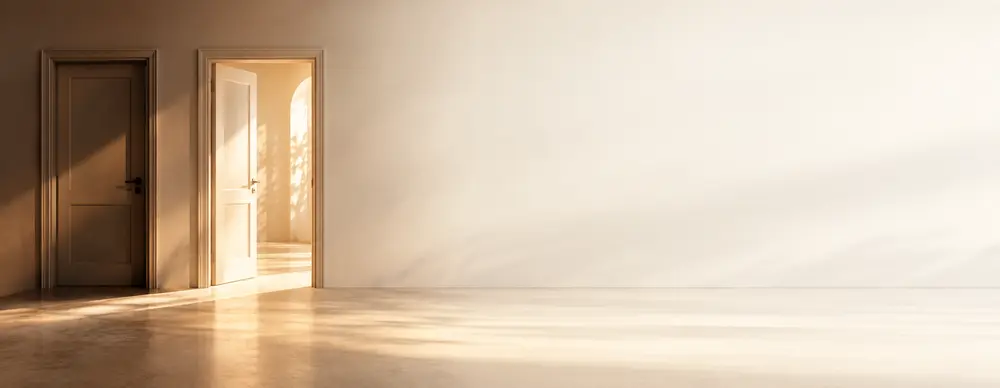
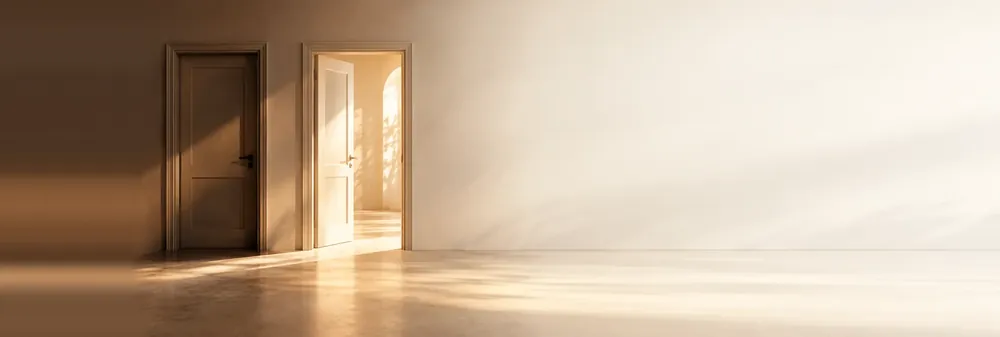
Red Flags: Leitfaden-Ueberschriften und Bild weiter rechts (KEV-206, KEV-209, KEV-210)
Die Seite heisst jetzt "Leitfaden fuer die Zusammenarbeit", darunter
"Red Flags & Green Lights"; Menue, Kacheln, Brotkrumen und Browser-Tab
bleiben "Red Flags". Die Download-Liste heisst "Leitfaden fuer die
Zusammenarbeit herunterladen". Das Titelbild ist links um Wand
verlaengert, die Tueren stehen auf dem Desktop weiter rechts, der helle
Bereich ist kleiner. Neu: waagerechter Bildausschnitt je Bild
(Titelbilder::FOKUS_X) fuer Handy und Tablet.

diff --git a/database/seeders/SchutzkonzeptSeeder.php b/database/seeders/SchutzkonzeptSeeder.php
@@ -70,6 +70,14 @@ class SchutzkonzeptSeeder extends Seeder
 
     public const RED_FLAGS_TITEL = 'Red Flags';
 
+    /*
+     * KEV-206 und KEV-210 (Taddi): Die Überschrift der Seite ist „Leitfaden
+     * für die Zusammenarbeit“, darunter „Red Flags & Green Lights“ (die
+     * Unterzeile steht in Titelbilder::SEITEN). Browser-Tab und Menü bleiben
+     * „Red Flags“.
+     */
+    public const RED_FLAGS_UEBERSCHRIFT = 'Leitfaden für die Zusammenarbeit';
+
     public const RED_FLAGS_ABSAETZE = [
         'Gemeinsam gelingt Zusammenarbeit am besten, wenn sie auf gegenseitigem Respekt, Vertrauen und klaren '
             .'Grenzen basiert. In diesem Leitfaden erfährst du, welche Grundsätze uns im Umgang miteinander wichtig '
@@ -84,7 +92,8 @@ class SchutzkonzeptSeeder extends Seeder
         .'No-Gos für eine respektvolle Zusammenarbeit mit unseren ehrenamtlichen Mitarbeitenden. Zum Herunterladen.';
 
     public const RED_FLAGS_DOKUMENTE = [
-        'titel' => 'Leitfaden herunterladen',
+        // KEV-209, Wunsch von Taddi (vorher „Leitfaden herunterladen“).
+        'titel' => 'Leitfaden für die Zusammenarbeit herunterladen',
         'dokumente' => [[
             'titel' => 'Leitfaden für die Zusammenarbeit: Grenzen, Red Flags und No-Gos',
             'url' => '/dokumente/2026/07/6.1.2.-Must-haves-u.-Red-Flaggs-fuer-Betroffene.pdf',
@@ -141,6 +150,27 @@ class SchutzkonzeptSeeder extends Seeder
     public static function nachtragen(): void
     {
         self::konzeptVerlinken();
+        self::redFlagsUeberschrift();
+        self::redFlagsDownloadTitel();
+    }
+
+    /** KEV-209: nur solange die Liste noch „Leitfaden herunterladen“ heißt. */
+    private static function redFlagsDownloadTitel(): void
+    {
+        $seite = Page::where('slug', self::RED_FLAGS_SLUG)->where('locale', 'de')->first();
+
+        foreach ($seite?->blocks()->where('typ', 'download_list')->get() ?? [] as $block) {
+            if (($block->data['titel'] ?? null) === 'Leitfaden herunterladen') {
+                $block->update(['data' => array_replace($block->data, ['titel' => self::RED_FLAGS_DOKUMENTE['titel']])]);
+            }
+        }
+    }
+
+    /** KEV-206/210: nur solange die Seite noch „Red Flags“ heißt. */
+    private static function redFlagsUeberschrift(): void
+    {
+        Page::where('slug', self::RED_FLAGS_SLUG)->where('locale', 'de')->where('titel', self::RED_FLAGS_TITEL)
+            ->update(['titel' => self::RED_FLAGS_UEBERSCHRIFT]);
     }
 
     /** KEV-204: Knopf zum PDF und Dokumentenliste. */

diff --git a/tests/Feature/SchutzUndRedFlagsTest.php b/tests/Feature/SchutzUndRedFlagsTest.php
@@ -3,6 +3,7 @@
 namespace Tests\Feature;
 
 use App\Models\Page;
+use App\Support\Titelbilder;
 use Database\Seeders\AltseiteSeeder;
 use Database\Seeders\SchutzkonzeptSeeder;
 use Illuminate\Foundation\Testing\RefreshDatabase;
@@ -47,5 +48,42 @@ class SchutzUndRedFlagsTest extends TestCase
 
         $this->assertSame(SchutzkonzeptSeeder::KNOPF, $text->fresh()->data['cta']);
         $this->assertSame(1, $seite->blocks()->where('typ', 'download_list')->count());
+    }
+
+    /**
+     * KEV-206, KEV-209, KEV-210: Überschrift „Leitfaden für die Zusammenarbeit“,
+     * darunter „Red Flags & Green Lights“, neuer Titel der Download-Liste. Menü,
+     * Brotkrumen und Browser-Tab bleiben „Red Flags“. Auch per Migration.
+     */
+    public function test_red_flags_ueberschriften(): void
+    {
+        $seite = $this->seite('red-flags');
+        $seite->update(['titelbild' => Titelbilder::datei('red-flags')]);
+
+        $html = $this->get('/red-flags')->assertOk()->getContent();
+        $this->assertMatchesRegularExpression('#<h1[^>]*>\s*Leitfaden für die Zusammenarbeit\s*</h1>\s*<p[^>]*>\s*Red Flags &amp; Green Lights#', $html);
+        $this->assertStringContainsString('<title>Red Flags - Kein Einzelfall e.V.</title>', $html);
+        $this->assertStringContainsString('aria-current="page" class="text-ink">Red Flags<', $html);
+        $this->assertStringContainsString('Leitfaden für die Zusammenarbeit herunterladen', $html);
+
+        // Stand davor.
+        $seite->update(['titel' => 'Red Flags', 'untertitel' => null]);
+        $liste = $seite->blocks()->where('typ', 'download_list')->first();
+        $liste->update(['data' => array_replace($liste->data, ['titel' => 'Leitfaden herunterladen'])]);
+
+        $migration = require database_path('migrations/2026_10_26_300000_red_flags_ueberschrift.php');
+        $migration->up();
+
+        $seite = $seite->fresh();
+        $this->assertSame('Leitfaden für die Zusammenarbeit', $seite->titel);
+        $this->assertSame('Red Flags & Green Lights', $seite->untertitel);
+        $this->assertSame('Leitfaden für die Zusammenarbeit herunterladen', $liste->fresh()->data['titel']);
+    }
+
+    /** KEV-210: Das verlängerte Bild hat seinen eigenen Ausschnitt. */
+    public function test_red_flags_bild_ausschnitt(): void
+    {
+        $this->assertSame('40% 30%', Titelbilder::fokus(Titelbilder::datei('red-flags')));
+        $this->assertSame('0% 100%', Titelbilder::fokus('/img/titelbilder/gibt-es-nicht.webp'));
     }
 }

diff --git a/tests/Feature/SeitengestaltungTest.php b/tests/Feature/SeitengestaltungTest.php
@@ -502,7 +502,8 @@ class SeitengestaltungTest extends TestCase
 
         $html = $this->get('/red-flags')->assertOk()->getContent();
         $this->assertStringContainsString('Gemeinsam gelingt Zusammenarbeit am besten', $html);
-        $this->assertStringContainsString('Leitfaden herunterladen', $html);
+        // Seit KEV-209 „Leitfaden für die Zusammenarbeit herunterladen“.
+        $this->assertStringContainsString('Leitfaden für die Zusammenarbeit herunterladen', $html);
         $this->assertStringContainsString('6.1.2.-Must-haves-u.-Red-Flaggs-fuer-Betroffene.pdf', $html);
 
         // Der leere Entwurf ist gefüllt, nicht verdoppelt.
@@ -684,16 +685,18 @@ class SeitengestaltungTest extends TestCase
      * KEV-145 und KEV-146: Taddis Bilder aus ihrem Drive-Ordner „1. Verein“
      * statt Platzhalter (die Seiten stammen aus KEV-97). Red Flags rechts um
      * Wand verlängert wie die Jahresberichte, Schutzkonzept unverändert 16 : 9.
+     * Red Flags seit KEV-210 auch links um Wand verlängert, mit eigenem
+     * waagerechtem Ausschnitt (40 %).
      */
     public function test_schutz_und_wertekonzept_und_red_flags_haben_eigene_titelbilder(): void
     {
-        foreach (['schutz-und-wertekonzept' => [65, [2000, 1126]], 'red-flags' => [30, [2000, 776]]] as $slug => [$fokus, $masse]) {
+        foreach (['schutz-und-wertekonzept' => ['0% 65', [2000, 1126]], 'red-flags' => ['40% 30', [2000, 675]]] as $slug => [$fokus, $masse]) {
             $html = $this->get('/'.$slug)->assertOk()->getContent();
 
             $this->assertStringContainsString('src="/img/titelbilder/'.$slug.'.webp?v=', $html);
             $this->assertStringContainsString('/img/titelbilder/'.$slug.'-1000.webp?v=', $html);
             $this->assertStringNotContainsString('platzhalter.webp', $html);
-            $this->assertStringContainsString('object-position: 0% '.$fokus.'%', $html);
+            $this->assertStringContainsString('object-position: '.$fokus.'%', $html);
             $this->assertNotContains($slug, \App\Support\Titelbilder::PLATZHALTER_SEITEN);
             $this->assertSame($masse, array_slice(getimagesize(public_path('img/titelbilder/'.$slug.'.webp')), 0, 2));
         }

diff --git a/app/Support/Titelbilder.php b/app/Support/Titelbilder.php
@@ -92,9 +92,9 @@ class Titelbilder
         'taetigkeits-und-jahresberichte' => null,
         // Bilder von Taddi aus ihrem Drive-Ordner „1. Verein“ statt
         // Platzhalter: Schutz- und Wertekonzept KEV-145, Red Flags KEV-146.
-        // Ohne Unterzeile.
+        // Ohne Unterzeile, Red Flags seit KEV-210 mit Taddis zweiter Zeile.
         'schutz-und-wertekonzept' => null,
-        'red-flags' => null,
+        'red-flags' => 'Red Flags & Green Lights',
         // KEV-144: Bild von Taddi (Drive-Ordner „3. Wissen“), Papierstapel
         // mit Stempel. Ohne Unterzeile.
         'atteste' => null,
@@ -383,9 +383,23 @@ class Titelbilder
     }
 
     /** Für object-position: links, in der Höhe nach FOKUS. */
+    /**
+     * Waagerechter Ausschnitt in Prozent, wo nicht der linke Rand (0 %). Wirkt
+     * nur, wo das Bild breiter ist als der Kopf, also auf Handy und Tablet.
+     *
+     * Red Flags (KEV-210): Das Bild ist links um Wand verlängert, damit die
+     * Türen auf dem Desktop weiter rechts stehen (Taddi: „der helle Bereich ist
+     * sehr groß“). Auf dem Handy zeigte der linke Rand dann nur noch die Wand.
+     *
+     * @var array<string, int>
+     */
+    public const FOKUS_X = [
+        self::ORDNER.'/red-flags.webp' => 40,
+    ];
+
     public static function fokus(?string $bild): string
     {
-        return '0% '.(self::FOKUS[$bild] ?? 100).'%';
+        return (self::FOKUS_X[$bild] ?? 0).'% '.(self::FOKUS[$bild] ?? 100).'%';
     }
 
     /**

diff --git a/config/navigation.php b/config/navigation.php
@@ -39,7 +39,10 @@ return [
                 ['schluessel' => 'satzung', 'label' => 'Satzung',                      'url' => '/satzung'],
                 ['schluessel' => 'mitgliedschaft', 'label' => 'Mitgliedschaft',               'url' => '/mitgliedschaft'],
                 ['schluessel' => 'schutz_und_wertekonzept', 'label' => 'Schutz- und Wertekonzept', 'url' => '/schutz-und-wertekonzept'],
-                ['schluessel' => 'red_flags', 'label' => 'Red Flags',                    'url' => '/red-flags'],
+                // KEV-206/210: Die Seite heißt „Leitfaden für die Zusammenarbeit“,
+                // darunter „Red Flags & Green Lights“; „nur hier“ (Taddi), im
+                // Menü, in Kacheln und Brotkrumen bleibt es „Red Flags“.
+                ['schluessel' => 'red_flags', 'label' => 'Red Flags',                    'url' => '/red-flags', 'kurz_in_brotkrumen' => true],
                 ['schluessel' => 'kinderkodex', 'label' => 'Kinderkodex',                  'url' => '/kinderkodex'],
                 ['schluessel' => 'istanbul_konvention', 'label' => 'Istanbul-Konvention',          'url' => '/istanbul-konvention'],
                 ['schluessel' => 'gremium_ukfb', 'label' => 'Gremium UKFB',                 'url' => '/gremium-ukfb'],

diff --git a/database/migrations/2026_10_26_300000_red_flags_ueberschrift.php b/database/migrations/2026_10_26_300000_red_flags_ueberschrift.php
@@ -1,0 +1,32 @@
+<?php
+
+use App\Models\Page;
+use App\Support\Titelbilder;
+use Database\Seeders\SchutzkonzeptSeeder;
+use Database\Seeders\UebersetzungenSeeder;
+use Illuminate\Database\Migrations\Migration;
+use Illuminate\Support\Facades\Artisan;
+
+/**
+ * Red Flags: Überschrift „Leitfaden für die Zusammenarbeit“, darunter „Red
+ * Flags & Green Lights“ (KEV-206, KEV-210). Danach die englische Fassung
+ * neu und die Unterzeilen nachgetragen.
+ */
+return new class extends Migration
+{
+    public function up(): void
+    {
+        SchutzkonzeptSeeder::nachtragen();
+
+        if (Page::where('slug', 'verein')->where('locale', 'de')->exists()) {
+            Artisan::call('db:seed', ['--class' => UebersetzungenSeeder::class, '--force' => true]);
+        }
+
+        Titelbilder::setzen();
+    }
+
+    public function down(): void
+    {
+        // Bewusst nichts — wie bei den übrigen Inhalts-Migrationen.
+    }
+};

diff --git a/lang/en/navigation.php b/lang/en/navigation.php
@@ -27,6 +27,8 @@ return [
     'gremium_ukfb' => 'UKFB committee',
     // KEV-179: im Menü kurz, der Seitentitel bleibt „About us – board and team“.
     'ueber_uns_vorstand_und_team' => 'Board and team',
+    // KEV-206/210: Seitentitel „Guide to working together“, im Menü kurz.
+    'red_flags' => 'Red flags',
 
     'gespeicherte_einstellungen' => 'Saved settings',
     'leiste_gruppen' => 'Groups',
